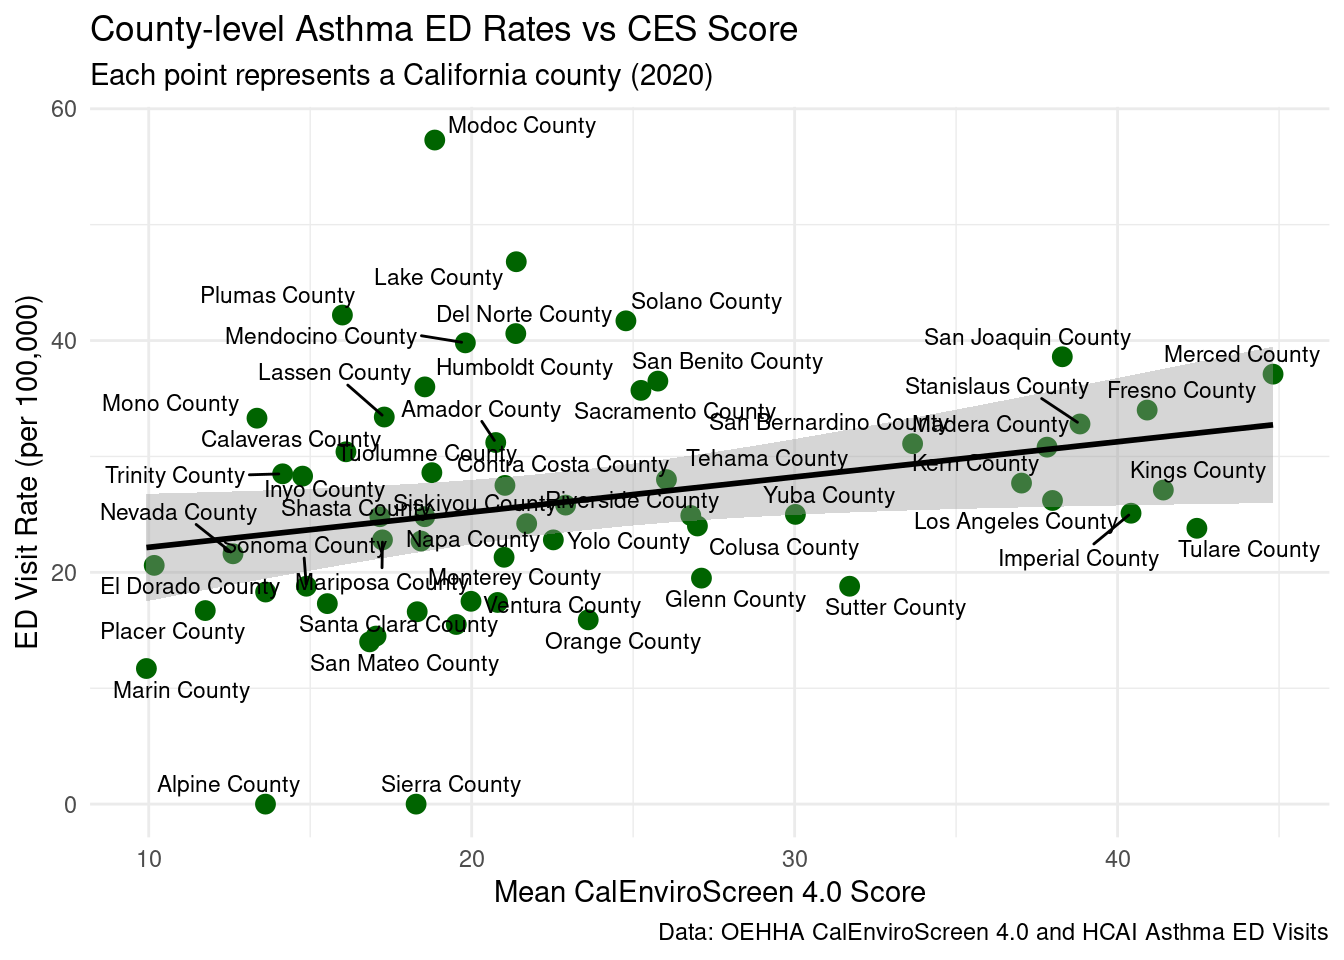
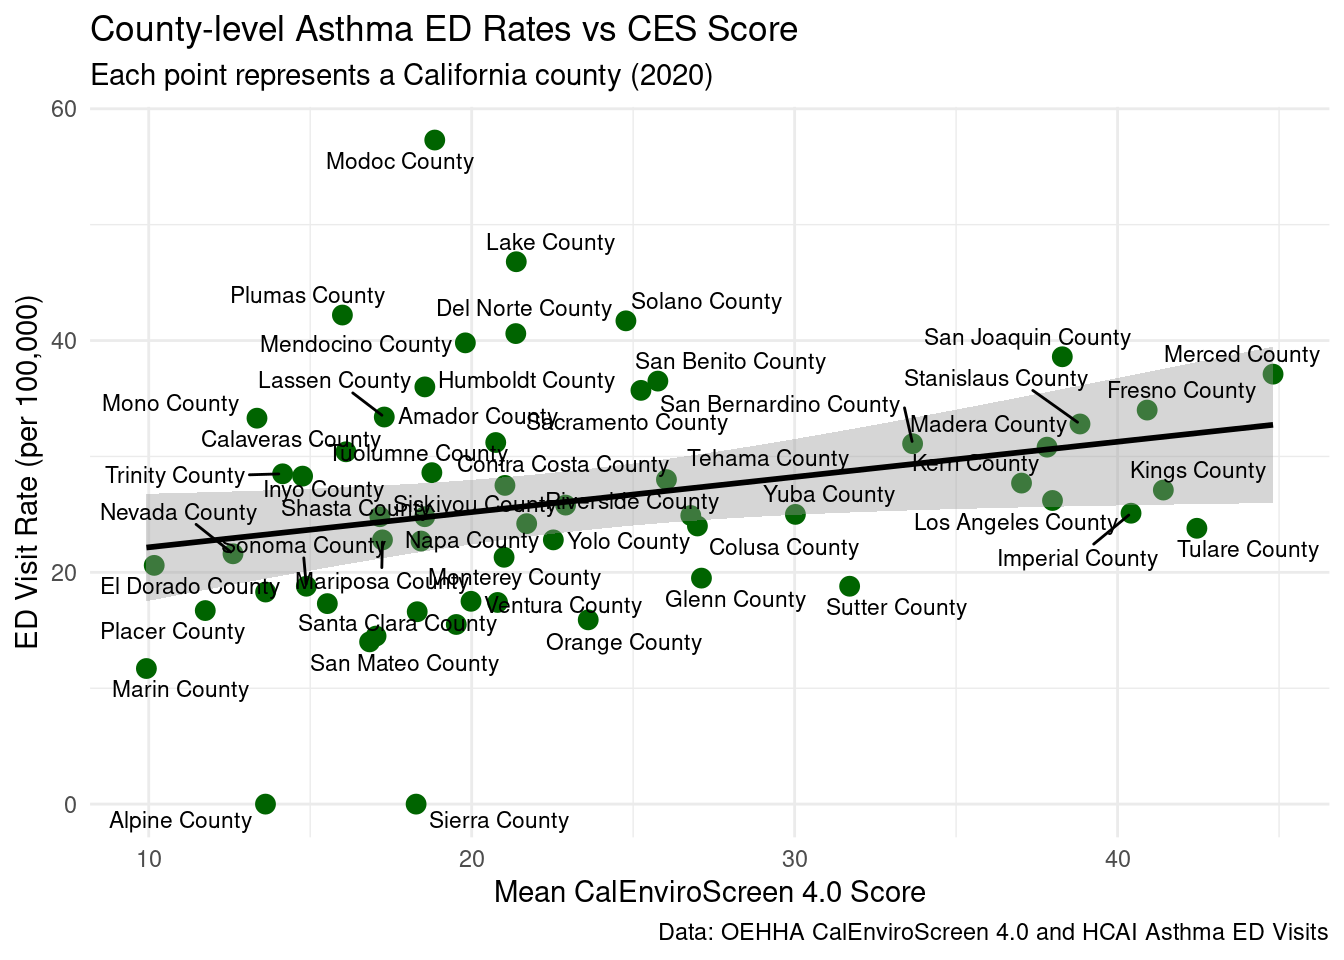
commit

diff --git a/Milestone_6 Working Copy.html b/Milestone_6 Working Copy.html
@@ -182,23 +182,23 @@ pre > code.sourceCode > span > a:first-child::before { text-decoration: underlin
 <h4 class="anchored" data-anchor-id="stratified-table-asthma-by-ces-category"><strong>Stratified table: asthma by CES category</strong></h4>
 <div class="cell">
 <div class="cell-output-display">
-<div id="sltbnhpjhu" style="padding-left:0px;padding-right:0px;padding-top:10px;padding-bottom:10px;overflow-x:auto;overflow-y:auto;width:auto;height:auto;">
-<style>#sltbnhpjhu table {
+<div id="vlmikqdsdc" style="padding-left:0px;padding-right:0px;padding-top:10px;padding-bottom:10px;overflow-x:auto;overflow-y:auto;width:auto;height:auto;">
+<style>#vlmikqdsdc table {
   font-family: system-ui, 'Segoe UI', Roboto, Helvetica, Arial, sans-serif, 'Apple Color Emoji', 'Segoe UI Emoji', 'Segoe UI Symbol', 'Noto Color Emoji';
   -webkit-font-smoothing: antialiased;
   -moz-osx-font-smoothing: grayscale;
 }
 
-#sltbnhpjhu thead, #sltbnhpjhu tbody, #sltbnhpjhu tfoot, #sltbnhpjhu tr, #sltbnhpjhu td, #sltbnhpjhu th {
+#vlmikqdsdc thead, #vlmikqdsdc tbody, #vlmikqdsdc tfoot, #vlmikqdsdc tr, #vlmikqdsdc td, #vlmikqdsdc th {
   border-style: none;
 }
 
-#sltbnhpjhu p {
+#vlmikqdsdc p {
   margin: 0;
   padding: 0;
 }
 
-#sltbnhpjhu .gt_table {
+#vlmikqdsdc .gt_table {
   display: table;
   border-collapse: collapse;
   line-height: normal;
@@ -224,12 +224,12 @@ pre > code.sourceCode > span > a:first-child::before { text-decoration: underlin
   border-left-color: #D3D3D3;
 }
 
-#sltbnhpjhu .gt_caption {
+#vlmikqdsdc .gt_caption {
   padding-top: 4px;
   padding-bottom: 4px;
 }
 
-#sltbnhpjhu .gt_title {
+#vlmikqdsdc .gt_title {
   color: #333333;
   font-size: 125%;
   font-weight: initial;
@@ -241,7 +241,7 @@ pre > code.sourceCode > span > a:first-child::before { text-decoration: underlin
   border-bottom-width: 0;
 }
 
-#sltbnhpjhu .gt_subtitle {
+#vlmikqdsdc .gt_subtitle {
   color: #333333;
   font-size: 85%;
   font-weight: initial;
@@ -253,7 +253,7 @@ pre > code.sourceCode > span > a:first-child::before { text-decoration: underlin
   border-top-width: 0;
 }
 
-#sltbnhpjhu .gt_heading {
+#vlmikqdsdc .gt_heading {
   background-color: #FFFFFF;
   text-align: center;
   border-bottom-color: #FFFFFF;
@@ -265,13 +265,13 @@ pre > code.sourceCode > span > a:first-child::before { text-decoration: underlin
   border-right-color: #D3D3D3;
 }
 
-#sltbnhpjhu .gt_bottom_border {
+#vlmikqdsdc .gt_bottom_border {
   border-bottom-style: solid;
   border-bottom-width: 2px;
   border-bottom-color: #D3D3D3;
 }
 
-#sltbnhpjhu .gt_col_headings {
+#vlmikqdsdc .gt_col_headings {
   border-top-style: solid;
   border-top-width: 2px;
   border-top-color: #D3D3D3;
@@ -286,7 +286,7 @@ pre > code.sourceCode > span > a:first-child::before { text-decoration: underlin
   border-right-color: #D3D3D3;
 }
 
-#sltbnhpjhu .gt_col_heading {
+#vlmikqdsdc .gt_col_heading {
   color: #333333;
   background-color: #FFFFFF;
   font-size: 100%;
@@ -306,7 +306,7 @@ pre > code.sourceCode > span > a:first-child::before { text-decoration: underlin
   overflow-x: hidden;
 }
 
-#sltbnhpjhu .gt_column_spanner_outer {
+#vlmikqdsdc .gt_column_spanner_outer {
   color: #333333;
   background-color: #FFFFFF;
   font-size: 100%;
@@ -318,15 +318,15 @@ pre > code.sourceCode > span > a:first-child::before { text-decoration: underlin
   padding-right: 4px;
 }
 
-#sltbnhpjhu .gt_column_spanner_outer:first-child {
+#vlmikqdsdc .gt_column_spanner_outer:first-child {
   padding-left: 0;
 }
 
-#sltbnhpjhu .gt_column_spanner_outer:last-child {
+#vlmikqdsdc .gt_column_spanner_outer:last-child {
   padding-right: 0;
 }
 
-#sltbnhpjhu .gt_column_spanner {
+#vlmikqdsdc .gt_column_spanner {
   border-bottom-style: solid;
   border-bottom-width: 2px;
   border-bottom-color: #D3D3D3;
@@ -338,11 +338,11 @@ pre > code.sourceCode > span > a:first-child::before { text-decoration: underlin
   width: 100%;
 }
 
-#sltbnhpjhu .gt_spanner_row {
+#vlmikqdsdc .gt_spanner_row {
   border-bottom-style: hidden;
 }
 
-#sltbnhpjhu .gt_group_heading {
+#vlmikqdsdc .gt_group_heading {
   padding-top: 8px;
   padding-bottom: 8px;
   padding-left: 5px;
@@ -368,7 +368,7 @@ pre > code.sourceCode > span > a:first-child::before { text-decoration: underlin
   text-align: left;
 }
 
-#sltbnhpjhu .gt_empty_group_heading {
+#vlmikqdsdc .gt_empty_group_heading {
   padding: 0.5px;
   color: #333333;
   background-color: #FFFFFF;
@@ -383,15 +383,15 @@ pre > code.sourceCode > span > a:first-child::before { text-decoration: underlin
   vertical-align: middle;
 }
 
-#sltbnhpjhu .gt_from_md > :first-child {
+#vlmikqdsdc .gt_from_md > :first-child {
   margin-top: 0;
 }
 
-#sltbnhpjhu .gt_from_md > :last-child {
+#vlmikqdsdc .gt_from_md > :last-child {
   margin-bottom: 0;
 }
 
-#sltbnhpjhu .gt_row {
+#vlmikqdsdc .gt_row {
   padding-top: 8px;
   padding-bottom: 8px;
   padding-left: 5px;
@@ -410,7 +410,7 @@ pre > code.sourceCode > span > a:first-child::before { text-decoration: underlin
   overflow-x: hidden;
 }
 
-#sltbnhpjhu .gt_stub {
+#vlmikqdsdc .gt_stub {
   color: #333333;
   background-color: #FFFFFF;
   font-size: 100%;
@@ -423,7 +423,7 @@ pre > code.sourceCode > span > a:first-child::before { text-decoration: underlin
   padding-right: 5px;
 }
 
-#sltbnhpjhu .gt_stub_row_group {
+#vlmikqdsdc .gt_stub_row_group {
   color: #333333;
   background-color: #FFFFFF;
   font-size: 100%;
@@ -437,15 +437,15 @@ pre > code.sourceCode > span > a:first-child::before { text-decoration: underlin
   vertical-align: top;
 }
 
-#sltbnhpjhu .gt_row_group_first td {
+#vlmikqdsdc .gt_row_group_first td {
   border-top-width: 2px;
 }
 
-#sltbnhpjhu .gt_row_group_first th {
+#vlmikqdsdc .gt_row_group_first th {
   border-top-width: 2px;
 }
 
-#sltbnhpjhu .gt_summary_row {
+#vlmikqdsdc .gt_summary_row {
   color: #333333;
   background-color: #FFFFFF;
   text-transform: inherit;
@@ -455,16 +455,16 @@ pre > code.sourceCode > span > a:first-child::before { text-decoration: underlin
   padding-right: 5px;
 }
 
-#sltbnhpjhu .gt_first_summary_row {
+#vlmikqdsdc .gt_first_summary_row {
   border-top-style: solid;
   border-top-color: #D3D3D3;
 }
 
-#sltbnhpjhu .gt_first_summary_row.thick {
+#vlmikqdsdc .gt_first_summary_row.thick {
   border-top-width: 2px;
 }
 
-#sltbnhpjhu .gt_last_summary_row {
+#vlmikqdsdc .gt_last_summary_row {
   padding-top: 8px;
   padding-bottom: 8px;
   padding-left: 5px;
@@ -474,7 +474,7 @@ pre > code.sourceCode > span > a:first-child::before { text-decoration: underlin
   border-bottom-color: #D3D3D3;
 }
 
-#sltbnhpjhu .gt_grand_summary_row {
+#vlmikqdsdc .gt_grand_summary_row {
   color: #333333;
   background-color: #FFFFFF;
   text-transform: inherit;
@@ -484,7 +484,7 @@ pre > code.sourceCode > span > a:first-child::before { text-decoration: underlin
   padding-right: 5px;
 }
 
-#sltbnhpjhu .gt_first_grand_summary_row {
+#vlmikqdsdc .gt_first_grand_summary_row {
   padding-top: 8px;
   padding-bottom: 8px;
   padding-left: 5px;
@@ -494,7 +494,7 @@ pre > code.sourceCode > span > a:first-child::before { text-decoration: underlin
   border-top-color: #D3D3D3;
 }
 
-#sltbnhpjhu .gt_last_grand_summary_row_top {
+#vlmikqdsdc .gt_last_grand_summary_row_top {
   padding-top: 8px;
   padding-bottom: 8px;
   padding-left: 5px;
@@ -504,11 +504,11 @@ pre > code.sourceCode > span > a:first-child::before { text-decoration: underlin
   border-bottom-color: #D3D3D3;
 }
 
-#sltbnhpjhu .gt_striped {
+#vlmikqdsdc .gt_striped {
   background-color: rgba(128, 128, 128, 0.05);
 }
 
-#sltbnhpjhu .gt_table_body {
+#vlmikqdsdc .gt_table_body {
   border-top-style: solid;
   border-top-width: 2px;
   border-top-color: #D3D3D3;
@@ -517,7 +517,7 @@ pre > code.sourceCode > span > a:first-child::before { text-decoration: underlin
   border-bottom-color: #D3D3D3;
 }
 
-#sltbnhpjhu .gt_footnotes {
+#vlmikqdsdc .gt_footnotes {
   color: #333333;
   background-color: #FFFFFF;
   border-bottom-style: none;
@@ -531,7 +531,7 @@ pre > code.sourceCode > span > a:first-child::before { text-decoration: underlin
   border-right-color: #D3D3D3;
 }
 
-#sltbnhpjhu .gt_footnote {
+#vlmikqdsdc .gt_footnote {
   margin: 0px;
   font-size: 90%;
   padding-top: 4px;
@@ -540,7 +540,7 @@ pre > code.sourceCode > span > a:first-child::before { text-decoration: underlin
   padding-right: 5px;
 }
 
-#sltbnhpjhu .gt_sourcenotes {
+#vlmikqdsdc .gt_sourcenotes {
   color: #333333;
   background-color: #FFFFFF;
   border-bottom-style: none;
@@ -554,7 +554,7 @@ pre > code.sourceCode > span > a:first-child::before { text-decoration: underlin
   border-right-color: #D3D3D3;
 }
 
-#sltbnhpjhu .gt_sourcenote {
+#vlmikqdsdc .gt_sourcenote {
   font-size: 90%;
   padding-top: 4px;
   padding-bottom: 4px;
@@ -562,72 +562,72 @@ pre > code.sourceCode > span > a:first-child::before { text-decoration: underlin
   padding-right: 5px;
 }
 
-#sltbnhpjhu .gt_left {
+#vlmikqdsdc .gt_left {
   text-align: left;
 }
 
-#sltbnhpjhu .gt_center {
+#vlmikqdsdc .gt_center {
   text-align: center;
 }
 
-#sltbnhpjhu .gt_right {
+#vlmikqdsdc .gt_right {
   text-align: right;
   font-variant-numeric: tabular-nums;
 }
 
-#sltbnhpjhu .gt_font_normal {
+#vlmikqdsdc .gt_font_normal {
   font-weight: normal;
 }
 
-#sltbnhpjhu .gt_font_bold {
+#vlmikqdsdc .gt_font_bold {
   font-weight: bold;
 }
 
-#sltbnhpjhu .gt_font_italic {
+#vlmikqdsdc .gt_font_italic {
   font-style: italic;
 }
 
-#sltbnhpjhu .gt_super {
+#vlmikqdsdc .gt_super {
   font-size: 65%;
 }
 
-#sltbnhpjhu .gt_footnote_marks {
+#vlmikqdsdc .gt_footnote_marks {
   font-size: 75%;
   vertical-align: 0.4em;
   position: initial;
 }
 
-#sltbnhpjhu .gt_asterisk {
+#vlmikqdsdc .gt_asterisk {
   font-size: 100%;
   vertical-align: 0;
 }
 
-#sltbnhpjhu .gt_indent_1 {
+#vlmikqdsdc .gt_indent_1 {
   text-indent: 5px;
 }
 
-#sltbnhpjhu .gt_indent_2 {
+#vlmikqdsdc .gt_indent_2 {
   text-indent: 10px;
 }
 
-#sltbnhpjhu .gt_indent_3 {
+#vlmikqdsdc .gt_indent_3 {
   text-indent: 15px;
 }
 
-#sltbnhpjhu .gt_indent_4 {
+#vlmikqdsdc .gt_indent_4 {
   text-indent: 20px;
 }
 
-#sltbnhpjhu .gt_indent_5 {
+#vlmikqdsdc .gt_indent_5 {
   text-indent: 25px;
 }
 
-#sltbnhpjhu .katex-display {
+#vlmikqdsdc .katex-display {
   display: inline-flex !important;
   margin-bottom: 0.75em !important;
 }
 
-#sltbnhpjhu div.Reactable > div.rt-table > div.rt-thead > div.rt-tr.rt-tr-group-header > div.rt-th-group:after {
+#vlmikqdsdc div.Reactable > div.rt-table > div.rt-thead > div.rt-tr.rt-tr-group-header > div.rt-th-group:after {
   height: 0px !important;
 }
 </style>
